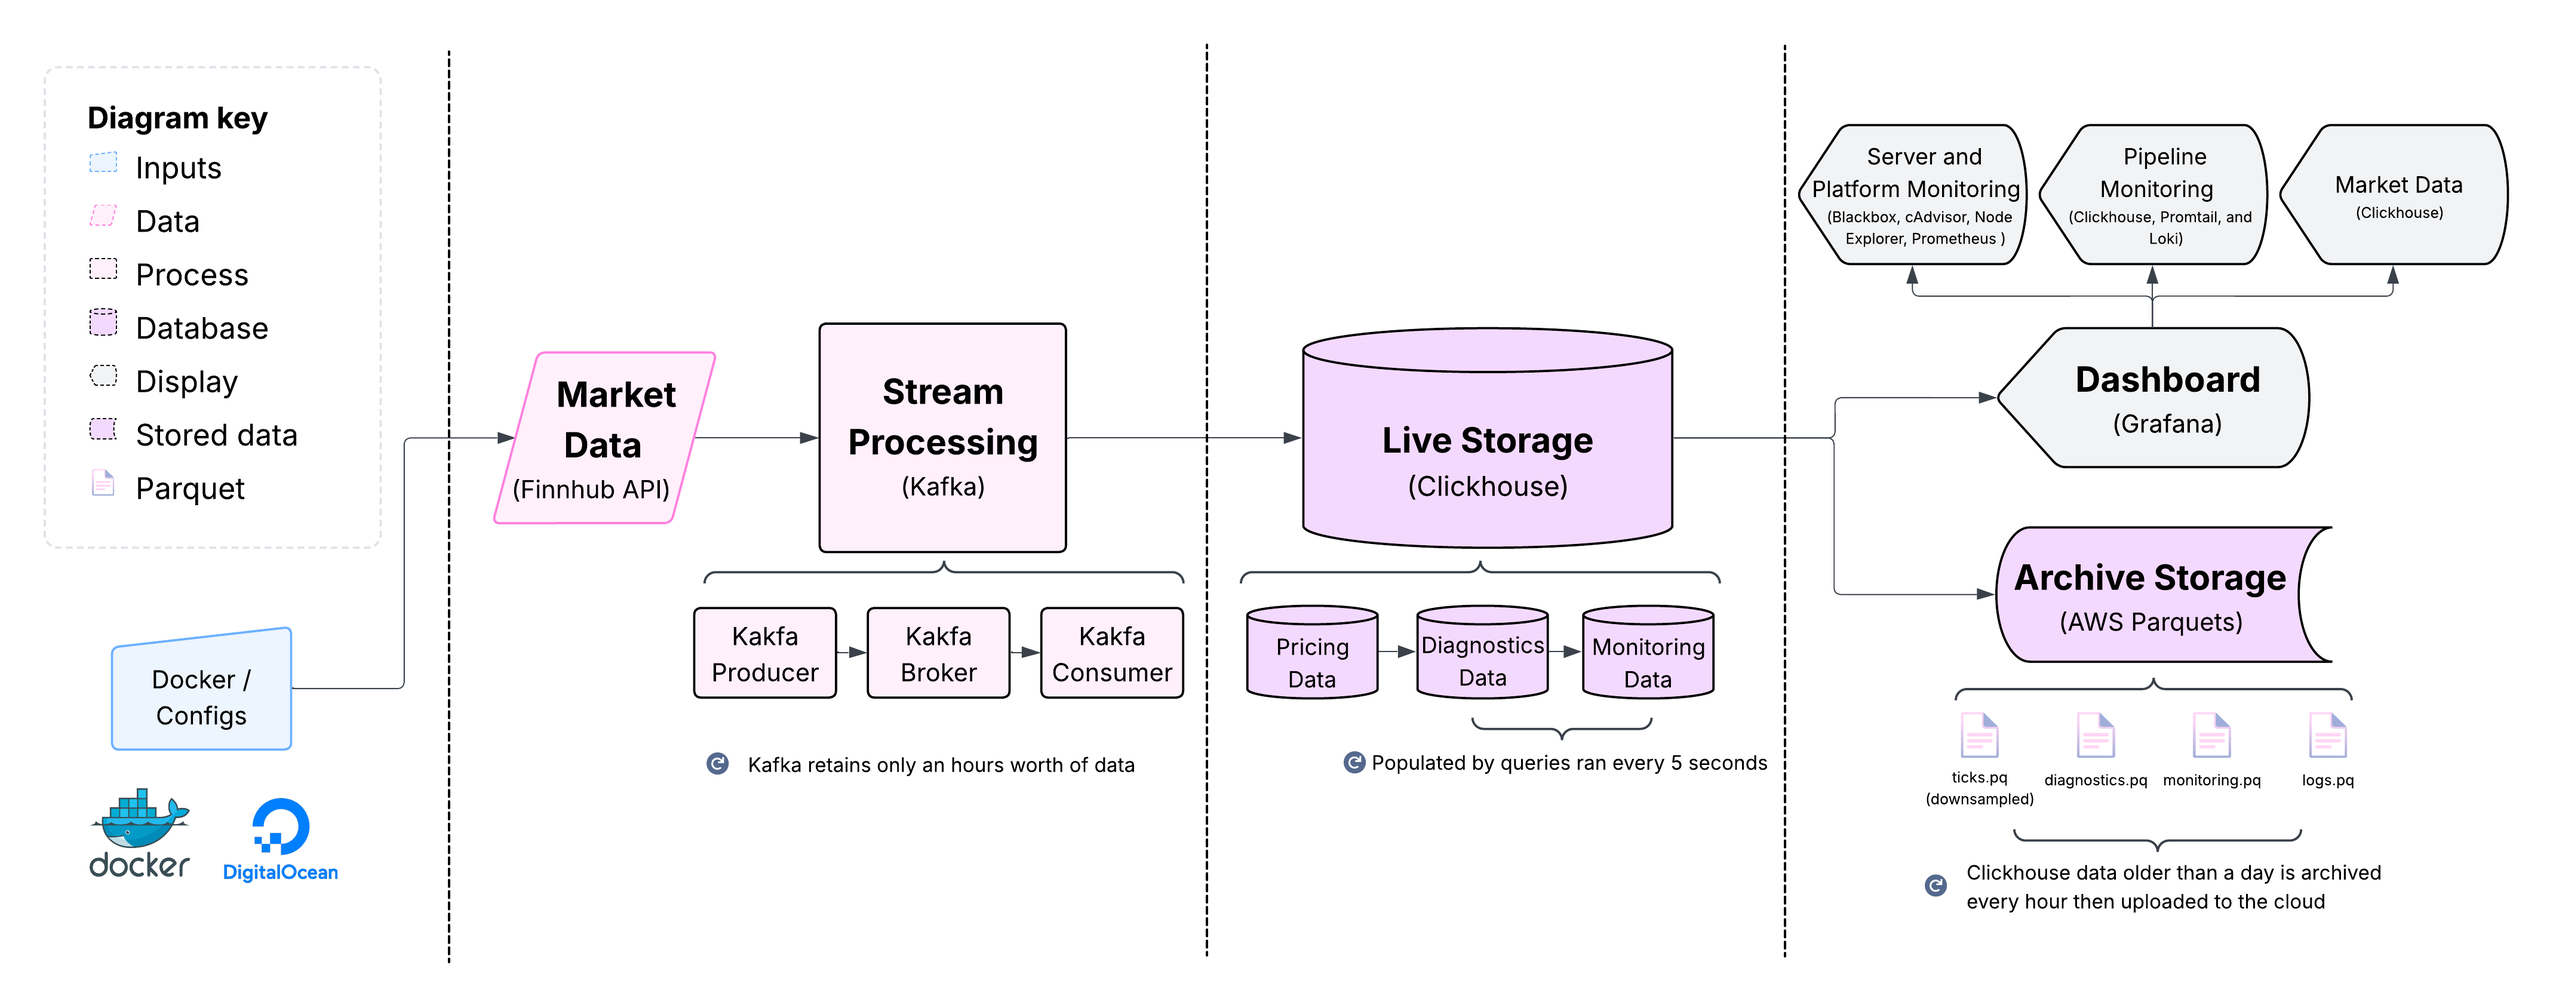
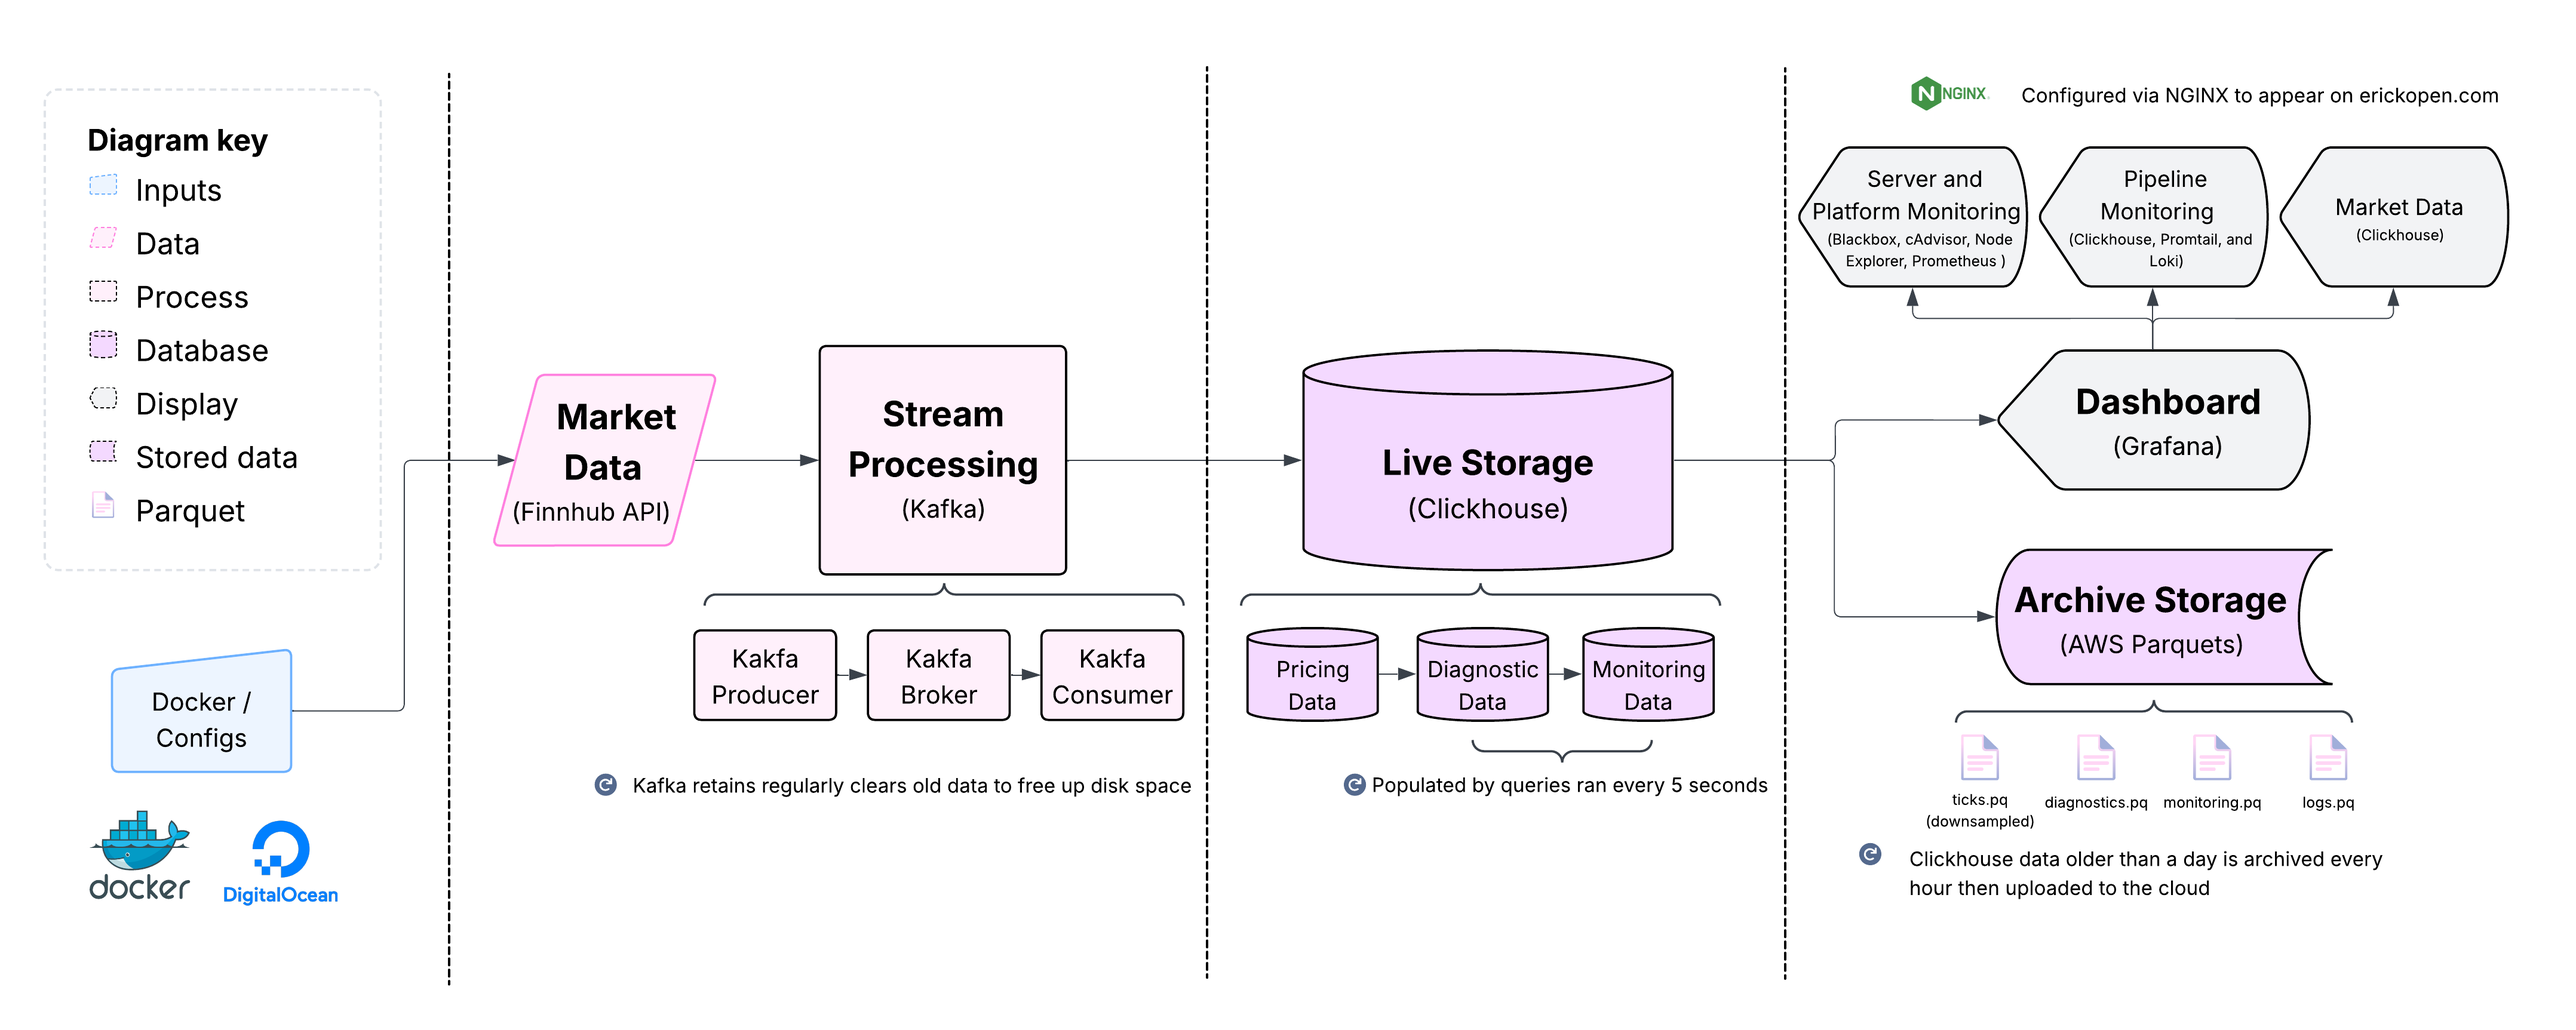
adding more details

diff --git a/index.html b/index.html
@@ -157,7 +157,7 @@
         <!-- Project Block -->
         <div class="proj-block">
           <div class="proj-header">Real-Time Market Data Pipeline</div>
-          <div class="proj-sub">Streams, stores, monitors, and visualizes market tick data, similar to systems used in trading environments. Currently deployed via Docker on a DigitalOcean server.</div>
+          <div class="proj-sub">A real-time market data pipeline for streaming, storing, monitoring, and visualizing financial tick data, designed as simplified recreation to systems used in trading environments. The pipeline is live and displayed on my personal website, www.erickopen.com. I continuously monitor and improve it in my free time.</div>
           <ul class="proj-list">
             <li>
 
@@ -167,43 +167,31 @@
                 data-title="Overview"
                 data-desc='
                   <div class="stack">
-                    <p>
-                      A simplified, real-time market data pipeline for streaming, storing, monitoring, and
-                      visualizing financial tick data, similar to systems used in trading environments.<br>
-                      Currently deployed via Docker on a DigitalOcean server.
-                    </p>
 
-                    <!-- <img src="images/architecture_simple.png" alt="Architecture Diagram" class="img-inline"/> -->
+                    <p> View more documentation on my <strong> <a href="https://github.com/ekopen/Real_Time_Market_Data_Pipeline" target="_blank"> GitHub </a> </strong> </p>
 
-                    <h2>Architecture</h2>
                     <ul>
-                      <li><strong>Ingestion:</strong> Kafka producer streams live market data from an API into a Kafka topic.</li>
-                      <li><strong>Storage:</strong> Kafka consumer validates, batches, and inserts data into ClickHouse tables.</li>
-                      <li><strong>Monitoring:</strong> Metrics and logs are tracked with Prometheus, Loki, and Python logging.</li>
-                      <li><strong>Archival:</strong> Data is automatically backed up to AWS S3 for long-term storage.</li>
-                      <li><strong>Dashboard:</strong> Grafana provides real-time views of tick data and pipeline health.</li>
-                      <li><strong>Deployment:</strong> Docker Compose ensures reproducibility and simple scaling.</li>
+                      <li><strong>Configuration:</strong> This project is orchestrated via Docker and deployed on a Digital Ocean server. NGINX was used to display Grafana dashboards on www.erickopen.com.</li>
+                      <li><strong>Ingestion:</strong> A Kafka producer connects to a Finnhub API websocket, which streams exchange data from Binance. This data is fed into a Kafka topic.</li>
+                      <li><strong>Storage:</strong> A Kafka consumer validates, batches, and inserts data into a ClickHouse table.</li>
+                      <li><strong>Monitoring:</strong> The pipeline itself is monitored via standard logging and a periodic diagnostic/monitoring queries (which are stored in seperate Clickhouse tables). Status of the Digital Ocean server and Docker are monitored by a variety of tools that feed into Prometheus.</li>
+                      <li><strong>Archival:</strong> Market data, logging data, and diagnostic/monitoring data gathered from the pipeline are archived to parquets after a day, which are then automatically uploaded to AWS S3 for long term storage.</li>
+                      <li><strong>Dashboard:</strong> Grafana dashboards highlight various metrics related to the status of the server, Docker, and pipeline. Additionally, market data captured is displayed for informative purposes.</li>
                     </ul>
 
                     <img src="images/architecture_complex.png" alt="Detailed Diagram" />
 
-                    <h2>Tech Stack</h2>
-                    <p>
-                      Docker • Python • Kafka • ClickHouse • Grafana • Promtail/Loki • Blackbox/Prometheus • AWS S3 • DigitalOcean DNS Hosting
-                    </p>
                   </div>'
                 data-src="">
                 Overview
               </button>
-
-
 
             </li>
             <li>
               <button
                 class="proj-btn btn-normal"
                 data-title="Server Monitoring"
-                data-desc="INSERT TEXT"
+                data-desc='This dashboard displays metrics regarding the Digital Ocean server this runs on. Information is gathered via Node Explorer, which is scraped by Prometheus.'
                 data-src="https://grafana.erickopen.com/d/blackbox-uptime/server-monitoring?var-interval=10s&orgId=1&from=now-24h&to=now&timezone=browser&var-target=$__all&var-job=node_exporter&var-node=node_exporter:9100&var-nodename=c8926d21c857&refresh=10s&kiosk&theme=light"
               >
                 Server Monitoring
@@ -212,8 +200,8 @@
             <li>
               <button
                 class="proj-btn btn-normal"
-                data-title="Platform Monitoring"
-                data-desc="INSERT TEXT"
+                data-title='This dashboard'
+                data-desc="This dashboard displays metrics for the orchestration, in this case Docker. Information is gathered via cAdvisor and Blackbox, which are scraped by Prometheus."
                 data-src="https://grafana.erickopen.com/d/944fd6f9-38e7-46dc-8c3c-465f610b1f1e/platform-monitoring?var-interval=10s&orgId=1&from=now-24h&to=now&timezone=browser&var-target=$__all&var-job=node_exporter&var-node=node_exporter:9100&var-nodename=c8926d21c857&refresh=10s&kiosk&theme=light"
               >
                 Platform Monitoring
@@ -223,7 +211,7 @@
               <button
                 class="proj-btn btn-normal"
                 data-title="Pipeline Monitoring"
-                data-desc="INSERT TEXT"
+                data-desc="This dashboard displays metrics for the real-time market data pipeline itself. Information is gathered via standard logging (which is collected by Promtail and displayed via Loki) and frequent diagnostic/monitoring queries (which are stored and displayed with Clickhouse)."
                 data-src="https://grafana.erickopen.com/d/087f3f78-11c9-4259-96ac-916af471a99c/pipeline-monitoring?var-interval=10s&orgId=1&from=now-24h&to=now&timezone=browser&var-target=$__all&var-job=node_exporter&var-node=node_exporter:9100&var-nodename=c8926d21c857&refresh=10s&kiosk&theme=light"
               >
                 Pipeline Monitoring
@@ -233,7 +221,7 @@
               <button
                 class="proj-btn btn-normal"
                 data-title="Market Data"
-                data-desc="INSERT TEXT"
+                data-desc="This dashboard displays market data captured by the pipeline. Data is stored and displayed with Clickhouse. Currently, the pipeline is only capturing Ethereum pricing data up to 24 hours old."
                 data-src="https://grafana.erickopen.com/d/37fb53d0-bf32-4e50-b46e-3bf1a868e61e/market-data?var-interval=10s&orgId=1&from=now-24h&to=now&timezone=browser&var-target=$__all&var-job=node_exporter&var-node=node_exporter:9100&var-nodename=c8926d21c857&refresh=10s&kiosk&theme=light"
               >
                 Market Data
